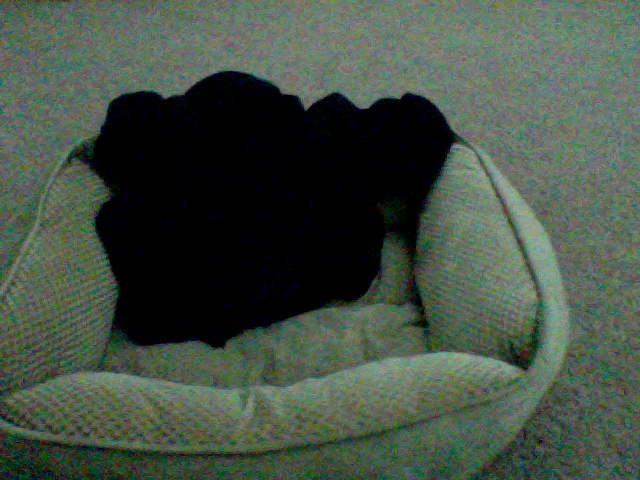
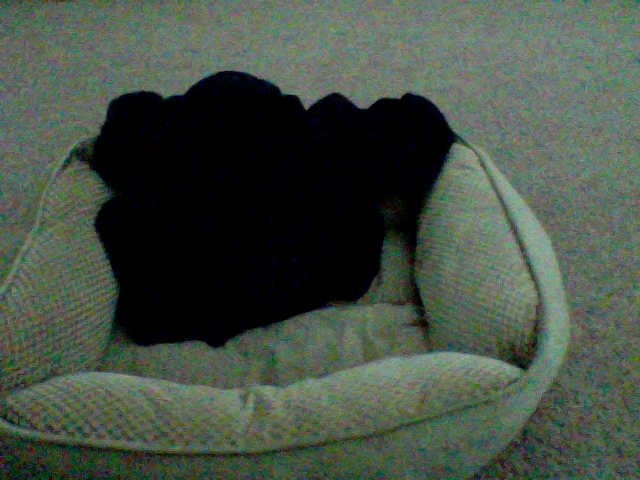
update at Month05Day08Time10:19

diff --git a/index.html b/index.html
@@ -40,7 +40,7 @@
       <div class="row">
         <div class="col-md-4">
 	<p>This picture was updated at Month05Day08Time10:19</p>
-		<img src="2_pic.png" />
+		<img src="1_pic.png" />
         </div>
       </div>
 
